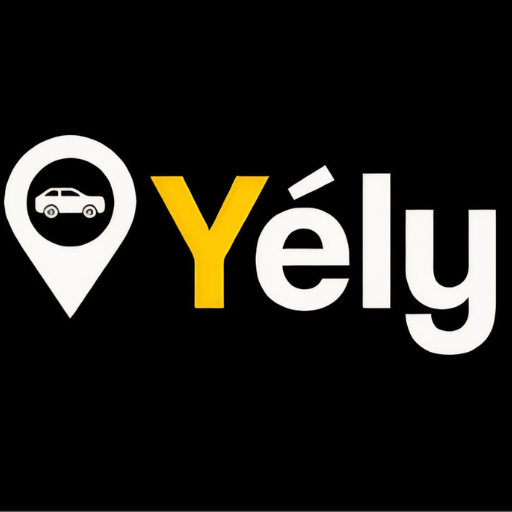
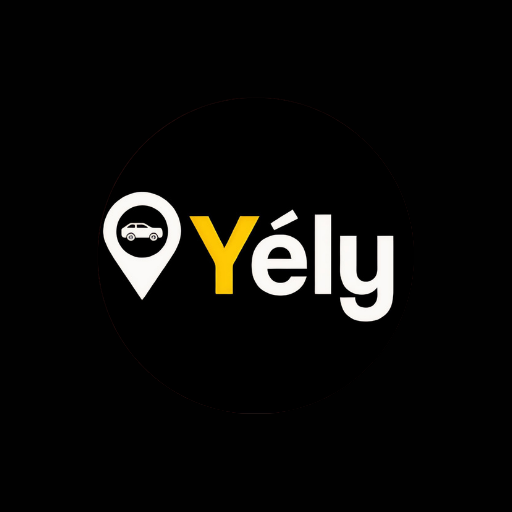
nouvelle icone et reparation position

Changed region(s): [[0.0, 0.25, 0.9688, 0.7188]]

diff --git a/src/hooks/useMapFitter.js b/src/hooks/useMapFitter.js
@@ -68,7 +68,10 @@ const useMapAutoFitter = ({
 
     const now = Date.now();
     const isTrackingActive = coordsToFit.length >= 2;
-    const debounceTime = isInitialFitDone.current ? (isTrackingActive ? 4000 : 9999999) : 300;
+    
+    // CORRECTION : Activation du Follow Mode. 
+    // Mise à jour de la caméra toutes les 4 secondes, qu'il y ait 1 point (suivi) ou 2 points (navigation).
+    const debounceTime = isInitialFitDone.current ? 4000 : 300;
 
     if (now - lastUpdateRef.current > debounceTime) {
       lastUpdateRef.current = now;
@@ -84,6 +87,7 @@ const useMapAutoFitter = ({
         const dynamicBottom = Math.min(mapBottomPadding + 40, maxAllowedPadding);
 
         if (coordsToFit.length === 1) {
+          // MODE SUIVI (Caméra centrée sur l'utilisateur)
           cameraRef.current.setCamera({
             centerCoordinate: [coordsToFit[0].longitude, coordsToFit[0].latitude],
             zoomLevel: 15,
@@ -99,6 +103,7 @@ const useMapAutoFitter = ({
           return;
         }
 
+        // MODE NAVIGATION (Vue englobante)
         let shouldActivateSuperpower = false;
 
         if (isTrackingActive && targetMarker && originMarker) {

diff --git a/src/components/map/markers/UserLocationMarker.jsx b/src/components/map/markers/UserLocationMarker.jsx
@@ -1,5 +1,5 @@
 // src/components/map/markers/UserLocationMarker.jsx
-// COMPOSANT MARQUEUR UTILISATEUR - Localisation Précise et Animée
+// COMPOSANT MARQUEUR UTILISATEUR - Localisation Precise et Animee
 // CSCSM Level: Bank Grade
 
 import MapLibreGL from '@maplibre/maplibre-react-native';
@@ -50,7 +50,7 @@ const UserLocationMarker = ({ coordinate, identifier = "user_loc", visible = tru
   });
 
   return (
-    <MapLibreGL.PointAnnotation
+    <MapLibreGL.MarkerView
       id={identifier}
       coordinate={[coordinate.longitude, coordinate.latitude]}
       anchor={{ x: 0.5, y: 0.5 }}
@@ -68,7 +68,7 @@ const UserLocationMarker = ({ coordinate, identifier = "user_loc", visible = tru
         />
         <View style={[styles.innerCircle, { backgroundColor: THEME.COLORS.champagneGold }]} />
       </View>
-    </MapLibreGL.PointAnnotation>
+    </MapLibreGL.MarkerView>
   );
 };
 
@@ -99,4 +99,4 @@ const styles = StyleSheet.create({
   },
 });
 
-export default React.memo(UserLocationMarker);  
+export default React.memo(UserLocationMarker);
